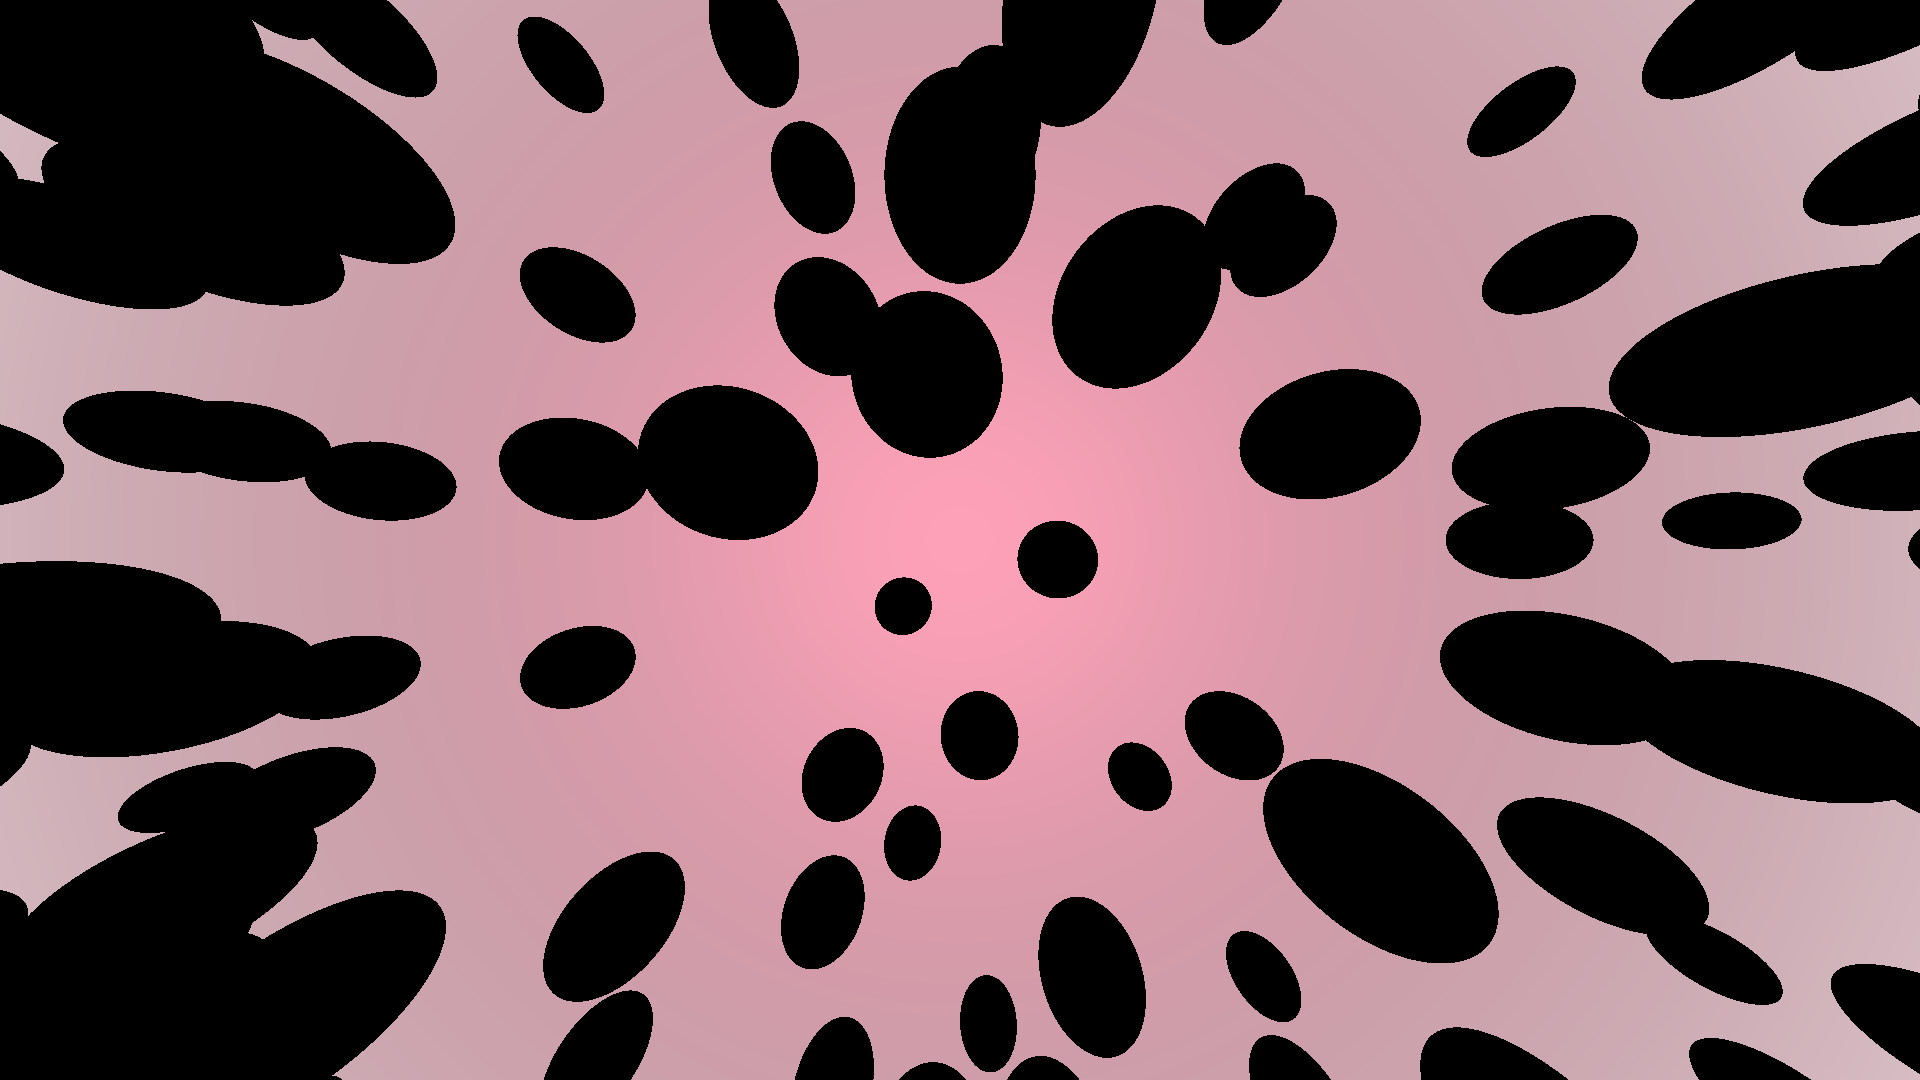
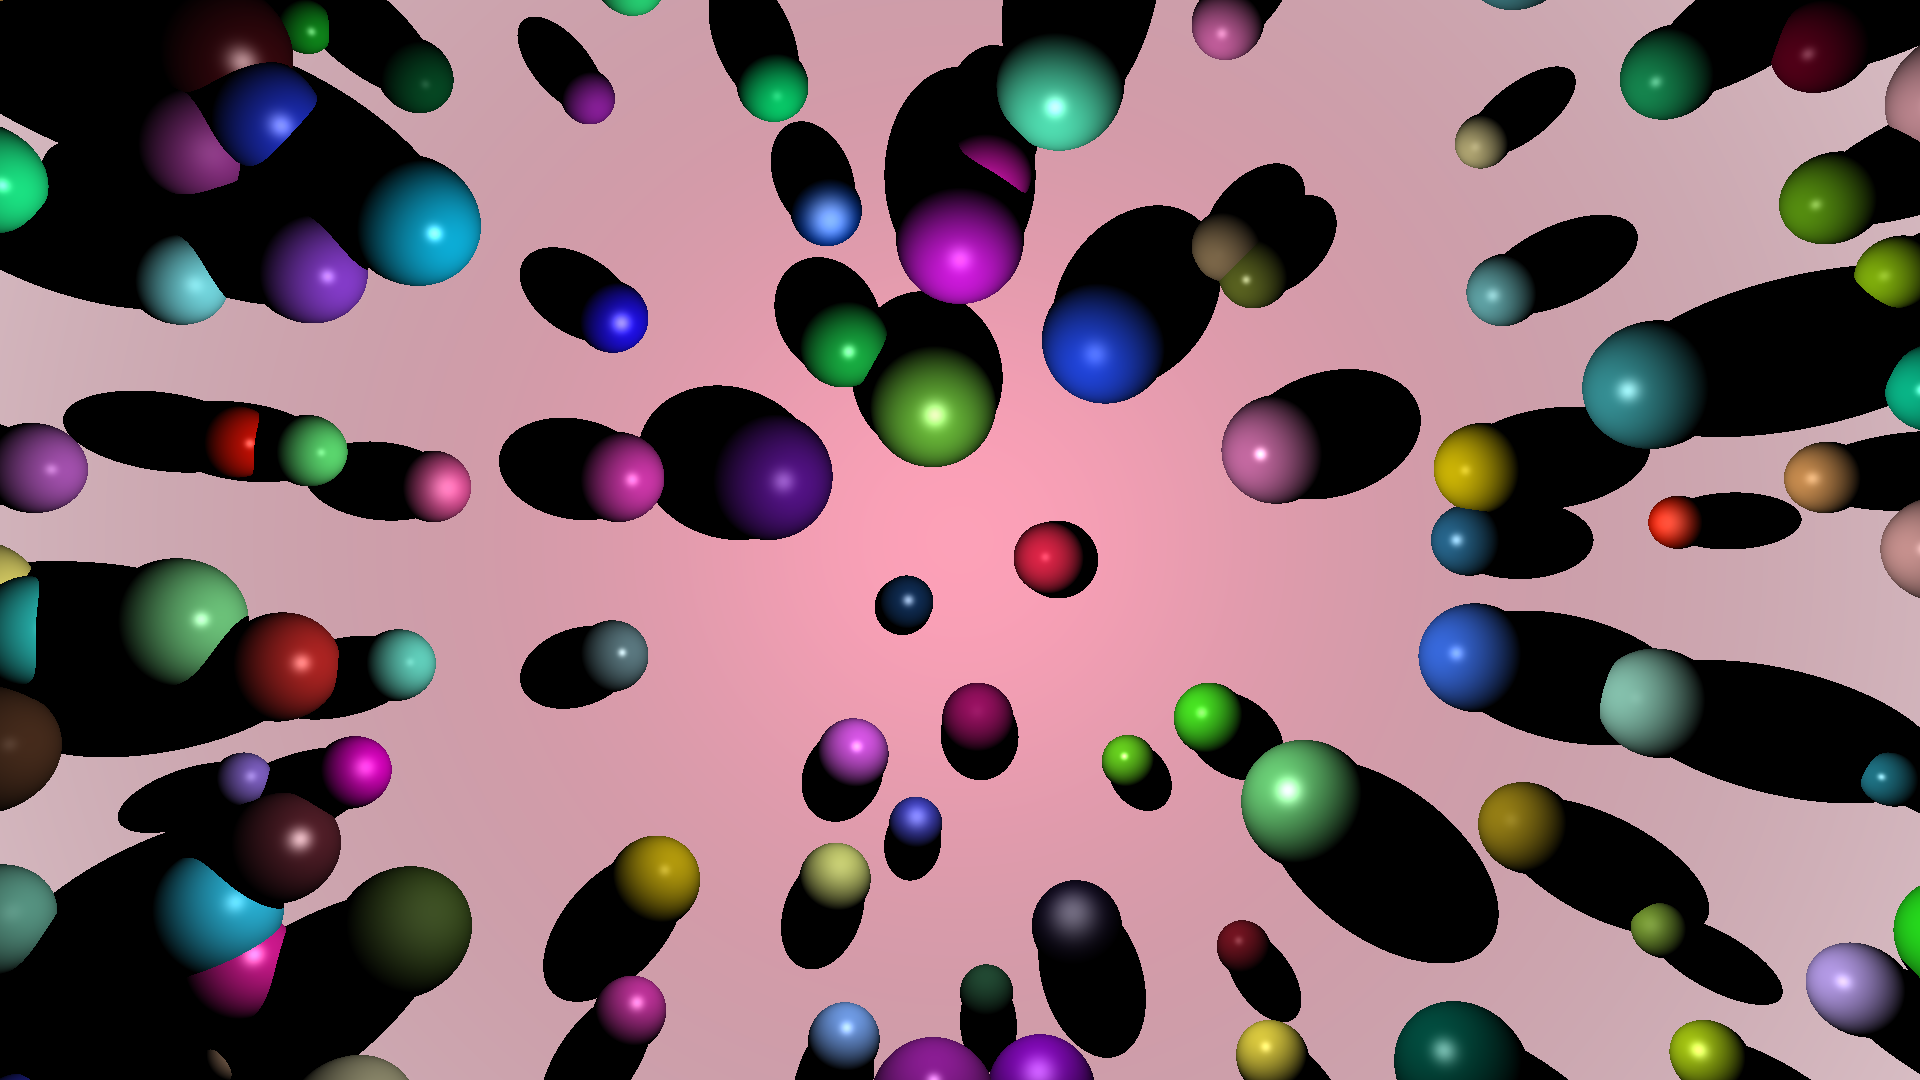
Jalon 5 - add closest intersection to camera functionality

diff --git a/core/src/main/java/com/raytracer/core/imaging/Frame.java b/core/src/main/java/com/raytracer/core/imaging/Frame.java
@@ -46,10 +46,29 @@ public class Frame {
                 List<Intersection> intersections = scene.getAllIntersections(r);
 
                 if (!intersections.isEmpty()) {
+
+                    Intersection closestIntersection = null;
+                    double minDistance = Double.MAX_VALUE;
+
                     for (Intersection intersection : intersections) {
-                        if (!scene.getLights().isEmpty()) image.setRGB(i, j, intersection.getColor(scene.getLights(), scene.getAmbient(), scene));
-                        else image.setRGB(i, j, scene.getAmbient().toRGB());
+                        double dist = intersection.getDistance();
+
+                        if (dist > 0 && dist < minDistance) { // Check that object is in front of camera and closer than previous intersection
+                            minDistance = dist;
+                            closestIntersection = intersection;
+                        }
                     }
+
+                    if (closestIntersection != null) { // If we found a valid intersection, compute its color
+                        if (!scene.getLights().isEmpty()) {
+                            image.setRGB(i, j, closestIntersection.getColor(scene.getLights(), scene.getAmbient(), scene));
+                        } else {
+                            image.setRGB(i, j, scene.getAmbient().toRGB());
+                        }
+                    } else {
+                        image.setRGB(i, j, 0);
+                    }
+
                 }
                 else {
                     image.setRGB(i, j, 0);

diff --git a/core/src/main/java/com/raytracer/core/geometry/Intersection.java b/core/src/main/java/com/raytracer/core/geometry/Intersection.java
@@ -80,14 +80,12 @@ public class Intersection {
                 lightDir = lightVec.normalize();
             }
 
-            // Cast a shadow ray slightly offset from the surface to avoid self-intersection
             Ray shadowRay = new Ray(getIntersectionAt().addition(lightDir.scalarMultiplication(0.001)), lightDir);
             boolean isShadowed = false;
-            
+
             List<Intersection> shadowIntersections = scene.getAllIntersections(shadowRay);
             for (Intersection intersection : shadowIntersections) {
-                // If we hit something closer than the light source, we are in shadow
-                if (intersection.getDistance() < distanceToLight) {
+                if (intersection.getDistance() > 0.001 && intersection.getDistance() < distanceToLight) {
                     isShadowed = true;
                     break;
                 }

diff --git a/core/src/test/java/com/raytracer/core/MainTest.java b/core/src/test/java/com/raytracer/core/MainTest.java
@@ -79,4 +79,12 @@ class MainTest {
 
         loopFiles(testFiles);
     }
+
+    @Test
+    void jalon6() throws Exception {
+        String resourcePath = "src/main/resources/scenes/jalon6/";
+        List<Path> testFiles = getTestFiles(resourcePath);
+
+        loopFiles(testFiles);
+    }
 }
